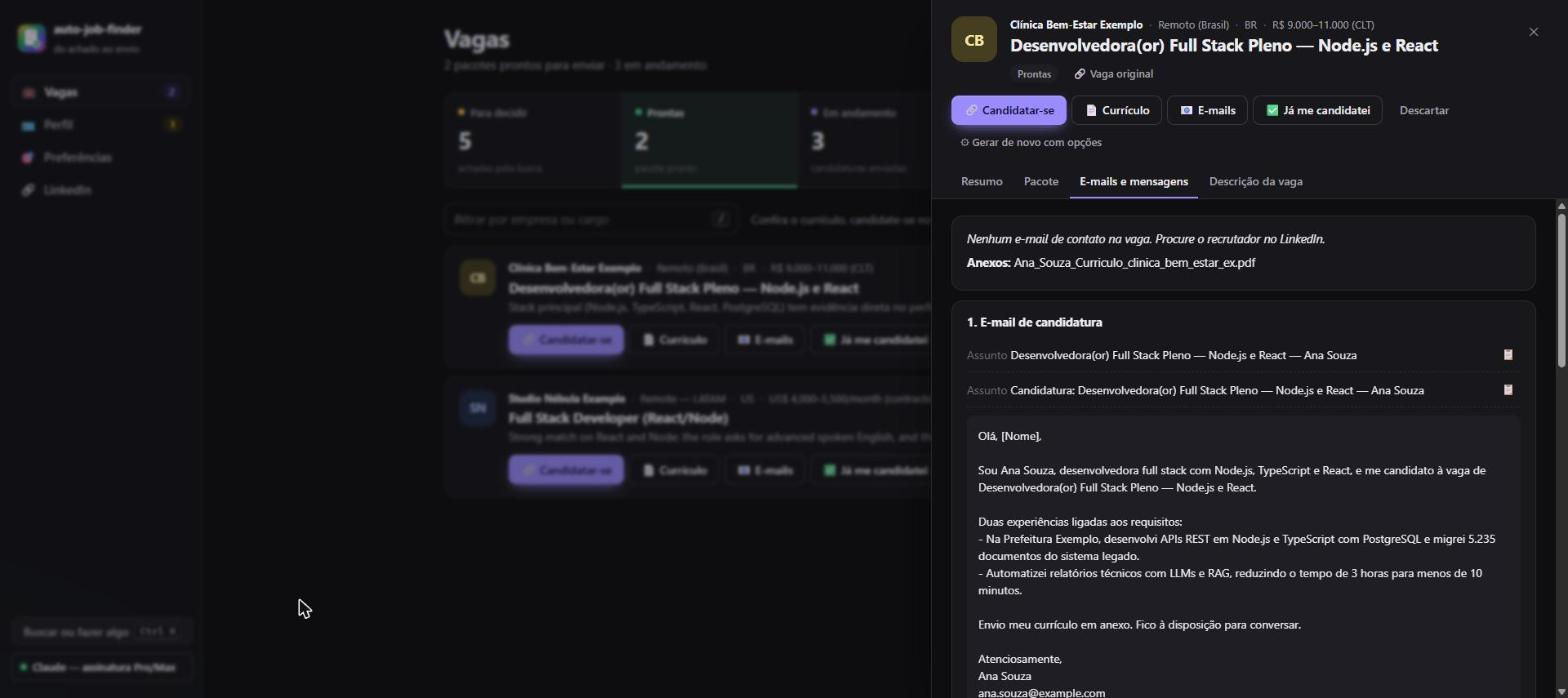
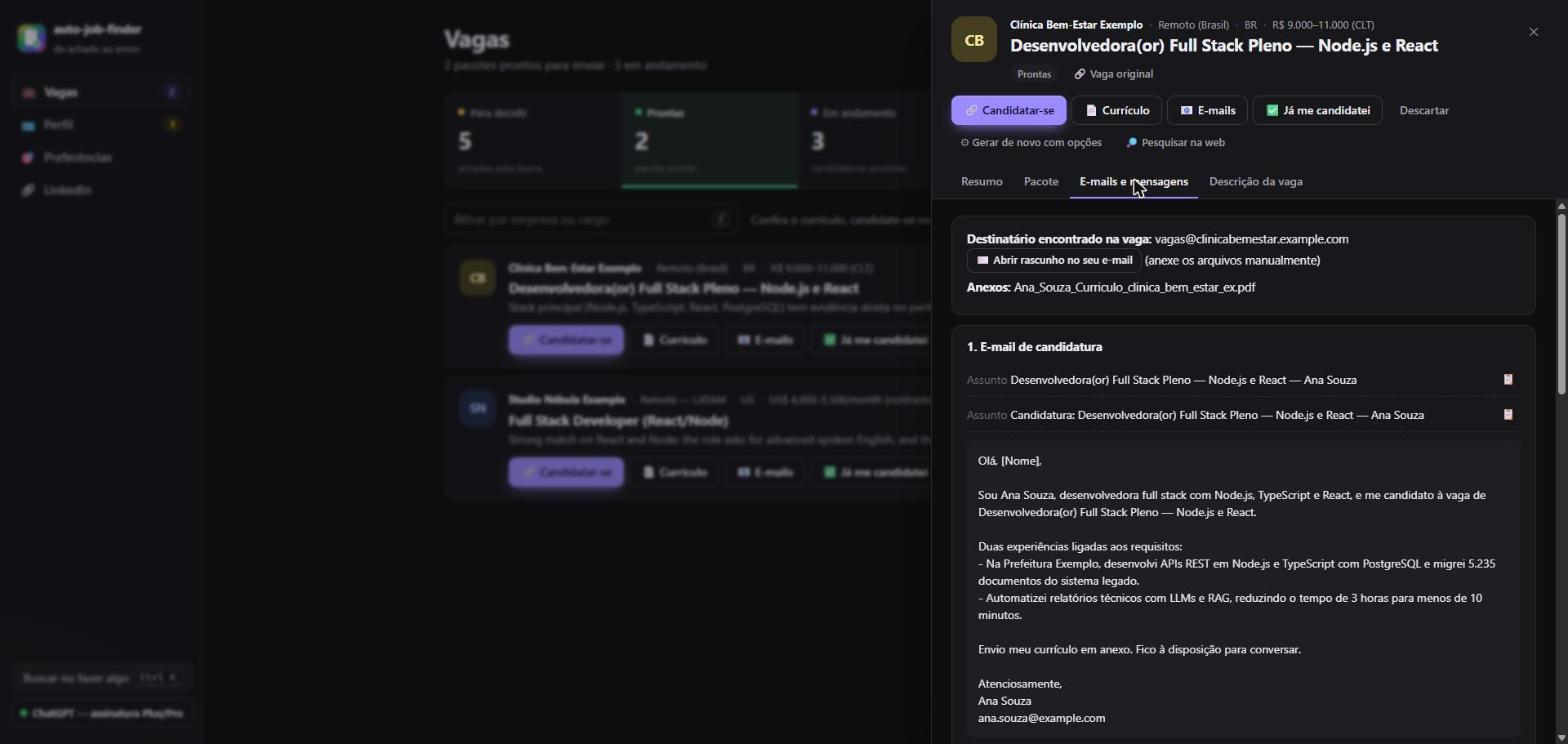
fix: descrição da vaga sem o resto do site e rascunho de e-mail na interface
- src/jobs/page.ts: o texto da vaga vem do JobPosting (JSON-LD) da
  página, com empresa, local, países aceitos, salário e data; sem ele, só
  o conteúdo principal, sem cabeçalho, menu, rodapé e formulários. Usado
  ao colar só o link e ao completar vagas da busca na web
- tidyText tira os "-" soltos de itens de menu vazios e linhas em branco
  repetidas, também ao mostrar vagas antigas
- "Abrir rascunho no seu e-mail" vira botão (mailto) em vez de aparecer
  cru; o link agora codifica ( ) ! ' * e os pacotes antigos também abrem
- demo com e-mail de contato numa vaga; teste da página; docs e print

diff --git a/src/jobs/page.ts b/src/jobs/page.ts
@@ -1,0 +1,86 @@
+import { htmlToText } from "../util/text.js";
+
+/**
+ * Texto de uma vaga a partir da página dela, sem o resto do site (menu, rodapé, "vagas parecidas").
+ *
+ * 1. JobPosting em JSON-LD: o formato que os sites de vaga publicam para o Google (Gupy, Greenhouse,
+ *    Lever, Workday, Wellfound, Indeed...). Traz a descrição limpa, a empresa, o local e o salário.
+ * 2. Sem isso, o conteúdo principal da página (<main>, ou <article>), sem cabeçalho, menu, rodapé e formulários.
+ */
+export function jobPageText(html: string): string {
+  return postingText(html) ?? htmlToText(mainContent(html));
+}
+
+type Obj = Record<string, unknown>;
+const isObj = (v: unknown): v is Obj => typeof v === "object" && v !== null && !Array.isArray(v);
+const str = (v: unknown) => (typeof v === "string" || typeof v === "number" ? String(v).trim() : "");
+const list = (v: unknown): unknown[] => (Array.isArray(v) ? v : v == null ? [] : [v]);
+const nameOf = (v: unknown) => (isObj(v) ? str(v.name) : str(v));
+
+/** Todos os objetos dos blocos JSON-LD da página (inclusive dentro de listas e de @graph). */
+function ldObjects(html: string): Obj[] {
+  const out: Obj[] = [];
+  const visit = (v: unknown) => {
+    for (const item of list(v)) {
+      if (!isObj(item)) continue;
+      out.push(item);
+      if (item["@graph"]) visit(item["@graph"]);
+    }
+  };
+  for (const m of html.matchAll(/<script[^>]*type=["']?application\/ld\+json["']?[^>]*>([\s\S]*?)<\/script>/gi)) {
+    try {
+      visit(JSON.parse(m[1].trim()));
+    } catch {
+      /* bloco inválido: ignora */
+    }
+  }
+  return out;
+}
+
+function place(v: unknown): string {
+  if (!isObj(v)) return str(v);
+  const a = isObj(v.address) ? v.address : v;
+  return [a.addressLocality, a.addressRegion, nameOf(a.addressCountry)].map((x) => (typeof x === "string" ? x.trim() : nameOf(x))).filter(Boolean).join(", ");
+}
+
+function salary(v: unknown): string {
+  if (!isObj(v)) return str(v);
+  const value = isObj(v.value) ? v.value : v;
+  const amount = [str(value.minValue), str(value.maxValue)].filter(Boolean).join("–") || str(value.value);
+  if (!amount) return "";
+  const unit = { HOUR: "por hora", DAY: "por dia", WEEK: "por semana", MONTH: "por mês", YEAR: "por ano" }[str(value.unitText).toUpperCase()] ?? "";
+  return [str(v.currency), amount, unit].filter(Boolean).join(" ");
+}
+
+function postingText(html: string): string | null {
+  const p = ldObjects(html).find((o) => list(o["@type"]).some((t) => str(t).toLowerCase() === "jobposting"));
+  if (!p) return null;
+  const description = htmlToText(str(p.description));
+  if (description.length < 200) return null;
+  const remote = str(p.jobLocationType).toUpperCase() === "TELECOMMUTE";
+  const locations = list(p.jobLocation).map(place).filter(Boolean);
+  const countries = list(p.applicantLocationRequirements).map(nameOf).filter(Boolean);
+  const months = isObj(p.experienceRequirements) ? str(p.experienceRequirements.monthsOfExperience) : "";
+  const meta = [
+    ["Empresa", nameOf(p.hiringOrganization)],
+    ["Local", [remote ? "Remoto" : "", ...locations].filter(Boolean).join(" · ")],
+    ["Aceita candidatos de", countries.length > 12 ? `${countries.slice(0, 12).join(", ")} e mais ${countries.length - 12}` : countries.join(", ")],
+    ["Tipo", list(p.employmentType).map(str).filter(Boolean).join(", ")],
+    ["Salário", salary(p.baseSalary)],
+    ["Experiência", months ? `${months} meses` : str(p.experienceRequirements)],
+    ["Publicada em", str(p.datePosted).slice(0, 10)],
+    ["Inscrições até", str(p.validThrough).slice(0, 10)],
+  ].filter(([, v]) => v);
+  const title = str(p.title);
+  return [title && `# ${title}`, meta.map(([k, v]) => `${k}: ${v}`).join("\n"), description].filter(Boolean).join("\n\n");
+}
+
+/** O conteúdo principal da página, sem cabeçalho, menu, rodapé, barras laterais e formulários. */
+function mainContent(html: string): string {
+  const clean = html
+    .replace(/<head[\s\S]*?<\/head>/gi, " ")
+    .replace(/<(script|style|noscript|template|svg|iframe)[\s\S]*?<\/\1>/gi, " ")
+    .replace(/<(header|nav|footer|aside|form|button|select)\b[\s\S]*?<\/\1>/gi, " ");
+  const pick = (tag: string) => clean.match(new RegExp(`<${tag}\\b[^>]*>([\\s\\S]*)</${tag}>`, "i"))?.[1];
+  return pick("main") ?? pick("article") ?? pick("body") ?? clean;
+}

diff --git a/tests/core.test.ts b/tests/core.test.ts
@@ -11,7 +11,8 @@ import { runGuards } from "../src/tailor/guards.js";
 import { refine } from "../src/tailor/refine.js";
 import { sourcesText } from "../src/tailor/index.js";
 import { marketProfile } from "../src/market.js";
-import { fixMojibake, htmlToText } from "../src/util/text.js";
+import { fixMojibake, htmlToText, tidyText } from "../src/util/text.js";
+import { jobPageText } from "../src/jobs/page.js";
 import { forbiddenPatterns } from "../src/profile.js";
 import { extractJson, strictJsonSchema, structuredViaText } from "../src/providers/jsonText.js";
 import { activeProviderId, normalizeProviderId } from "../src/providers/index.js";
@@ -426,4 +427,35 @@ test("atualizar perfil: regras de nunca afirmar saem e entram sem mexer nas outr
     out.neverClaim.map((r) => r.phrase ?? r.regex),
     ["inglês fluente", "certifica(do|ção) PMP", "certificação CyberOps"],
   );
+});
+
+test("página da vaga: usa o JobPosting e deixa de fora menu, rodapé e itens vazios", () => {
+  const description = "<p>Full-time, fully remote.</p><p><strong>What you'll do</strong><br>own the full stack<br>ship, measure, iterate</p>" + "<p>We value calm, async work and good product intuition.</p>".repeat(4);
+  const ld = {
+    "@context": "https://schema.org",
+    "@type": "JobPosting",
+    title: "Senior full-stack software engineer",
+    description,
+    hiringOrganization: { "@type": "Organization", name: "Acme" },
+    jobLocationType: "TELECOMMUTE",
+    applicantLocationRequirements: [{ "@type": "Country", name: "Brazil" }, { "@type": "Country", name: "Canada" }],
+    employmentType: "FULL_TIME",
+    baseSalary: { "@type": "MonetaryAmount", currency: "USD", value: { "@type": "QuantitativeValue", unitText: "YEAR", minValue: 120000, maxValue: 160000 } },
+  };
+  const page = `<html><head><title>Vaga | Site</title><script type="application/ld+json">${JSON.stringify(ld)}</script></head>
+<body><nav><ul><li><a href="/"><svg></svg></a></li><li></li><li>Log In</li></ul></nav><main><h1>Vaga</h1></main><footer>Copyright</footer></body></html>`;
+  const text = jobPageText(page);
+  assert.match(text, /^# Senior full-stack software engineer/);
+  assert.match(text, /Empresa: Acme/);
+  assert.match(text, /Local: Remoto/);
+  assert.match(text, /Aceita candidatos de: Brazil, Canada/);
+  assert.match(text, /Salário: USD 120000–160000 por ano/);
+  assert.match(text, /own the full stack/);
+  assert.doesNotMatch(text, /Log In|Copyright/);
+
+  // Sem JobPosting: só o conteúdo principal, sem menu, rodapé e itens de lista vazios.
+  const plain = `<html><head><title>X</title></head><body><header>Logo</header><nav><ul><li></li><li></li><li>Entrar</li></ul></nav>
+<main><h1>Analista de Dados</h1><ul><li></li><li>SQL e Python</li><li> </li></ul></main><footer>Rodapé</footer></body></html>`;
+  assert.equal(jobPageText(plain), "Analista de Dados\n\n- SQL e Python");
+  assert.equal(tidyText("a\n-\n- \n•\n\n\n\nb"), "a\n\nb");
 });

diff --git a/src/tailor/index.ts b/src/tailor/index.ts
@@ -8,7 +8,8 @@ import { coverLetterHtml, resumeHtml } from "../render/resumeHtml.js";
 import { closeBrowser, htmlToPdf } from "../render/pdf.js";
 import { ResumeSchema, type CoverLetter, type EmailPack, type Job, type JobAnalysis, type Market, type Resume } from "../schemas.js";
 import { track } from "../tracker.js";
-import { htmlToText, slugify, today } from "../util/text.js";
+import { jobPageText } from "../jobs/page.js";
+import { slugify, today } from "../util/text.js";
 import { writeCoverLetter, writeEmails, writeInterviewPrep } from "../writers/documents.js";
 import { analyzeJob, condenser, editor, reviewer, strategist } from "./agents.js";
 
@@ -56,7 +57,7 @@ async function ensureFullDescription(job: Job): Promise<Job> {
   try {
     const res = await fetch(job.url, { headers: { "User-Agent": settings.userAgent } });
     if (res.ok) {
-      const text = htmlToText(await res.text());
+      const text = jobPageText(await res.text());
       if (text.length > 1500) return updateJob(job.id, { description: text.slice(0, 20000) });
     }
   } catch {
@@ -109,9 +110,9 @@ ${analysis.mustHave.map((m) => `- ${m}`).join("\n")}
 
 function emailsMarkdown(e: EmailPack, analysis: JobAnalysis, attachments: string[]): string {
   const to = analysis.recruiterEmail;
-  const mailto = to
-    ? `mailto:${to}?subject=${encodeURIComponent(e.application.subjectOptions[0])}&body=${encodeURIComponent(e.application.body)}`
-    : "";
+  // Codifica também ( ) ! ' *, que o encodeURIComponent deixa passar e quebrariam o link em Markdown.
+  const enc = (s: string) => encodeURIComponent(s).replace(/[!'()*]/g, (c) => `%${c.charCodeAt(0).toString(16).toUpperCase()}`);
+  const mailto = to ? `mailto:${to}?subject=${enc(e.application.subjectOptions[0])}&body=${enc(e.application.body)}` : "";
   const note = e.linkedinConnectionNote;
   return `# E-mails e mensagens para o recrutador
 

diff --git a/src/jobs/search.ts b/src/jobs/search.ts
@@ -3,7 +3,8 @@ import { settings } from "../config.js";
 import { loadPreferences } from "../profile.js";
 import { profileSystem } from "../prompts.js";
 import type { Job } from "../schemas.js";
-import { fixMojibake, htmlToText } from "../util/text.js";
+import { fixMojibake } from "../util/text.js";
+import { jobPageText } from "./page.js";
 import { prefilter } from "./filter.js";
 import { SOURCES, type RawJob } from "./sources/index.js";
 import { webSearchJobs } from "./sources/websearch.js";
@@ -68,7 +69,7 @@ export async function addJob(input: { url?: string; file?: string; text?: string
     const res = await fetch(input.url, { headers: { "User-Agent": settings.userAgent } });
     if (!res.ok) throw new Error(`Não consegui abrir a vaga (${res.status}). Cole o texto num arquivo e use --file.`);
     const html = await res.text();
-    description = htmlToText(html);
+    description = jobPageText(html);
     if (description.length < 400)
       throw new Error("A página veio quase vazia (site com login/JS, ex.: LinkedIn). Cole o texto num arquivo e use --file.");
   }

diff --git a/src/util/text.ts b/src/util/text.ts
@@ -25,15 +25,20 @@ export function decodeEntities(s: string): string {
 export function htmlToText(html: string): string {
   let s = decodeEntities(html); // algumas APIs mandam HTML escapado
   s = s
-    .replace(/<(script|style|noscript|svg)[\s\S]*?<\/\1>/gi, " ")
+    .replace(/<(script|style|noscript|svg|head)[\s\S]*?<\/\1>/gi, " ")
     .replace(/<li[^>]*>/gi, "\n- ")
     .replace(/<\/(p|div|h[1-6]|li|ul|ol|section|article|tr)>/gi, "\n")
     .replace(/<br\s*\/?>/gi, "\n")
     .replace(/<[^>]+>/g, " ");
-  s = decodeEntities(s);
-  return s
+  return tidyText(decodeEntities(s));
+}
+
+/** Espaços normalizados, sem linhas que são só um marcador de lista (item vazio de menu) e sem linhas em branco seguidas. */
+export function tidyText(text: string): string {
+  return text
     .split("\n")
     .map((l) => l.replace(/[ \t ]+/g, " ").trim())
+    .filter((l) => !/^[-•·*–]$/.test(l))
     .filter((l, i, arr) => l !== "" || (i > 0 && arr[i - 1] !== ""))
     .join("\n")
     .trim();

diff --git a/src/ui/routes/jobs.ts b/src/ui/routes/jobs.ts
@@ -14,6 +14,7 @@ import { profileChangedAt } from "../../onboarding/update.js";
 import { researchJob } from "../../jobs/research.js";
 import { interviewGuide, rerender, tailorJob, type TailorOptions } from "../../tailor/index.js";
 import { openExternal } from "../../util/open.js";
+import { tidyText } from "../../util/text.js";
 import { fileUrl, HttpError, isHttp, str, strList, type App, type Route } from "../http.js";
 
 /** Vagas, tarefas longas (busca, triagem, pacotes) e escolha da IA. */
@@ -122,7 +123,8 @@ function jobDetail(j: Job) {
     : [];
   return {
     ...jobSummary(j),
-    description: j.description,
+    // Vagas antigas guardaram a página inteira: limpa os itens vazios de menu na hora de mostrar.
+    description: tidyText(j.description),
     evidence: j.triage?.evidence ?? [],
     gaps: j.triage?.mustHaveGaps ?? [],
     files,

diff --git a/src/ui/public/js/core.js b/src/ui/public/js/core.js
@@ -276,6 +276,9 @@ function inline(s) {
     .replace(/`([^`]+)`/g, "<code>$1</code>")
     .replace(/\*\*([^*]+)\*\*/g, "<strong>$1</strong>")
     .replace(/(^|[\s(])_([^_]+)_(?=[\s.,;:)!?]|$)/g, "$1<em>$2</em>")
+    // Rascunho de e-mail (mailto:): abre o programa de e-mail com o texto pronto; quem envia é a pessoa.
+    // Vai até o ")" seguido de espaço ou fim: pacotes antigos têm "(" e ")" sem codificar no texto do e-mail.
+    .replace(/\[([^\]]+)\]\((mailto:[^\s"<>]+?)\)(?=\s|$)/g, '<a class="btn small" href="$2">✉ $1</a>')
     .replace(/\[([^\]]+)\]\((https?:[^)\s]+)\)/g, '<a href="$2" target="_blank" rel="noopener">$1</a>')
     .replace(/(^|[\s(])(https?:\/\/[^\s<)]+)/g, '$1<a href="$2" target="_blank" rel="noopener">$2</a>');
 }

diff --git a/docs/como-funciona.md b/docs/como-funciona.md
@@ -86,6 +86,15 @@ Antes de gastar IA, um **filtro determinístico** (`src/jobs/filter.ts`) corta a
 
 As vagas que passam vão para `data/jobs.json` com status `new`. Vagas repetidas (mesmo link, ou mesma empresa e cargo) são ignoradas.
 
+### Texto da página da vaga
+
+A busca na web com IA traz só um resumo de cada vaga. Antes do pacote, e quando você cola só o link, o agente baixa a página e tira dela o texto da vaga (`src/jobs/page.ts#jobPageText`):
+
+1. **JobPosting em JSON-LD**, o formato que os sites de vaga publicam para o Google (Gupy, Greenhouse, Lever, Workday, Wellfound, Indeed...). Vem a descrição limpa, mais empresa, local, países aceitos, tipo de contrato, salário e data.
+2. Sem isso, só o **conteúdo principal** da página (`<main>`, ou `<article>`), sem cabeçalho, menu, rodapé, barras laterais e formulários.
+
+Itens de lista vazios (os "-" soltos de menus) e linhas em branco repetidas saem do texto (`util/text.ts#tidyText`), também na hora de mostrar vagas antigas.
+
 ### Vaga colada e vaga sem link
 
 Uma vaga colada (`src/jobs/search.ts#addJob`) entra direto, sem o filtro: você já decidiu que ela interessa. Quando ela chega sem link (indicação, e-mail, WhatsApp), `src/jobs/research.ts#researchJob` pode pesquisá-la antes da triagem. Precisa de uma IA com busca na web (`llm.ts#canWebSearch`).
@@ -252,6 +261,7 @@ src/
   jobs/
     sources/             fontes de vagas (APIs públicas, páginas de carreira, web com IA)
     search.ts filter.ts  busca e filtro (addJob: vaga colada ou por link)
+    page.ts              texto da vaga a partir da página (JobPosting ou conteúdo principal)
     research.ts          pesquisa na web de uma vaga recebida sem link
     triage.ts            triagem pela IA
     store.ts             data/jobs.json

diff --git a/docs/guia-de-uso.md b/docs/guia-de-uso.md
@@ -193,7 +193,7 @@ Clique no título de uma vaga para abrir os detalhes.
 
 - **Resumo:** a avaliação da IA, o que você já tem (com evidência no perfil), as lacunas e a descrição.
 - **Pacote:** os arquivos, o LEIA-ME com o passo a passo de candidatura e os relatórios (ATS, nota do recrutador e conferência com o perfil).
-- **E-mails e mensagens:** candidatura, convite e mensagem no LinkedIn, follow-up e agradecimento, cada assunto e cada mensagem com botão de copiar.
+- **E-mails e mensagens:** candidatura, convite e mensagem no LinkedIn, follow-up e agradecimento, cada assunto e cada mensagem com botão de copiar. Se a vaga traz um e-mail de contato, **✉ Abrir rascunho no seu e-mail** abre o seu programa de e-mail com destinatário, assunto e texto preenchidos; você anexa o currículo e envia.
 - **Entrevista:** o guia, quando existir.
 
 ![Detalhes: e-mails](images/detalhes-emails.jpg)
